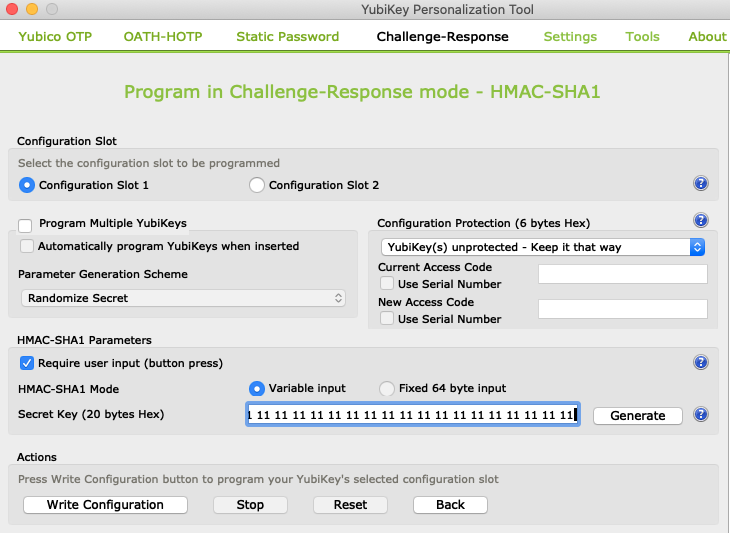
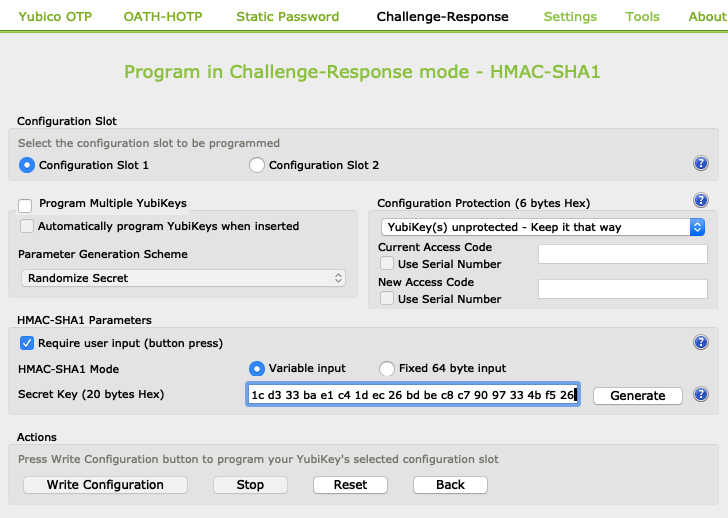
update

Changed region(s): [[0.0, 0.0, 1.0, 1.0], [0.0, 0.2162, 0.5137, 0.8031], [0.0, 0.834, 0.6951, 0.9884]]

diff --git a/pages/mydoc/usersguide.md b/pages/mydoc/usersguide.md
@@ -480,8 +480,6 @@ One touch login may be configured with a security key by assigned the FIDO U2F t
 ![U2F Example](https://docs.crp.to/images/u2f-slot.jpeg)
 <br>Now you can register your security key by pressing button 1. But won't it type out my information while registering? No, while your device is flashing blue you can press the button to register and typing is disabled. Once your security key is registered you can log out and now you have a one touch login configured:<br>- Automatically type out and browse to login page (https://www.dropbox.com/login).<br>- Three second delay ensures login page has time to load, this can be increased if using slow internet connections.<br>- Username and password are entered in login field.<br>- Two second delay ensures security key page has time to load.<br>- U2F authentication completes automatically." %}
 
-Learn more about OnlyKey's implementation of FIDO2 / FIDO U2F [here.](https://docs.crp.to/features.html#universal-2nd-factor-authentication-u2f)
-
 #### Challenge-Response {#challenge-response}
 
 Challenge response is a form of authentication where an application sends a unique challenge and OnlyKey sends back an HMACSHA1 response. This response may be used for things like encryption of data which is used by software such as [KeePassXC](#keepassxc). OnlyKey flashes yellow when a challenge is received and user presses any button on OnlyKey to authorize the response. OnlyKey supports customizable "HMAC User Input Mode" which allows the user to select if button press is required for challenge-response.
@@ -491,16 +489,14 @@ Challenge response is a form of authentication where an application sends a uniq
 
 By default, no setup is required for challenge-response as OnlyKey has a random HMAC key set by default. Challenge-response is compatible with Yubikey devices. This permits OnlyKey and Yubikey to be used interchangeably for challenge-response with supported applications. In order to use OnlyKey and Yubikey interchangeably both must have the same HMAC key set. To set HMAC key on YubiKey we recommend using the [Yubikey Personalization Tool](https://www.yubico.com/products/services-software/download/yubikey-personalization-tools/).
 
-For example, to set a key of all 1s to slot 1 and set a key of all 2s to slot 2:
+For example, a random secret key may be generated and loaded into slots 1 and 2 on Yubikey:
 ![](https://raw.githubusercontent.com/trustcrypto/trustcrypto.github.io/master/images/ykchal1.png)
 ![](https://raw.githubusercontent.com/trustcrypto/trustcrypto.github.io/master/images/ykchal2.png)
 
-To set HMAC key on OnlyKey the [OnlyKey CLI](https://docs.crp.to/command-line.html) may be used.
-
-For example, to set a key of all 1s to slot 1 (130 in CLI) and set a key of all 2s to slot 2 (129 in CLI):
+The same secret key may be loaded into slots 1 (130 in CLI) and 2 (129 in CLI) using the OnlyKey the [OnlyKey CLI](https://docs.crp.to/command-line.html).
 ![](https://raw.githubusercontent.com/trustcrypto/trustcrypto.github.io/master/images/okchal2.png)
 
-Setting the same HMAC key (20 bytes hex) allows OnlyKey/Yubikey devices to generate the same responses and be used interchangeably.
+Setting the same HMAC key (40 characters, 20 bytes hex) allows OnlyKey/Yubikey devices to generate the same responses and be used interchangeably.
 
 ### Using OnlyKey With A Software Password Manager {#using-onlykey-with-a-software-password-manager}
 
